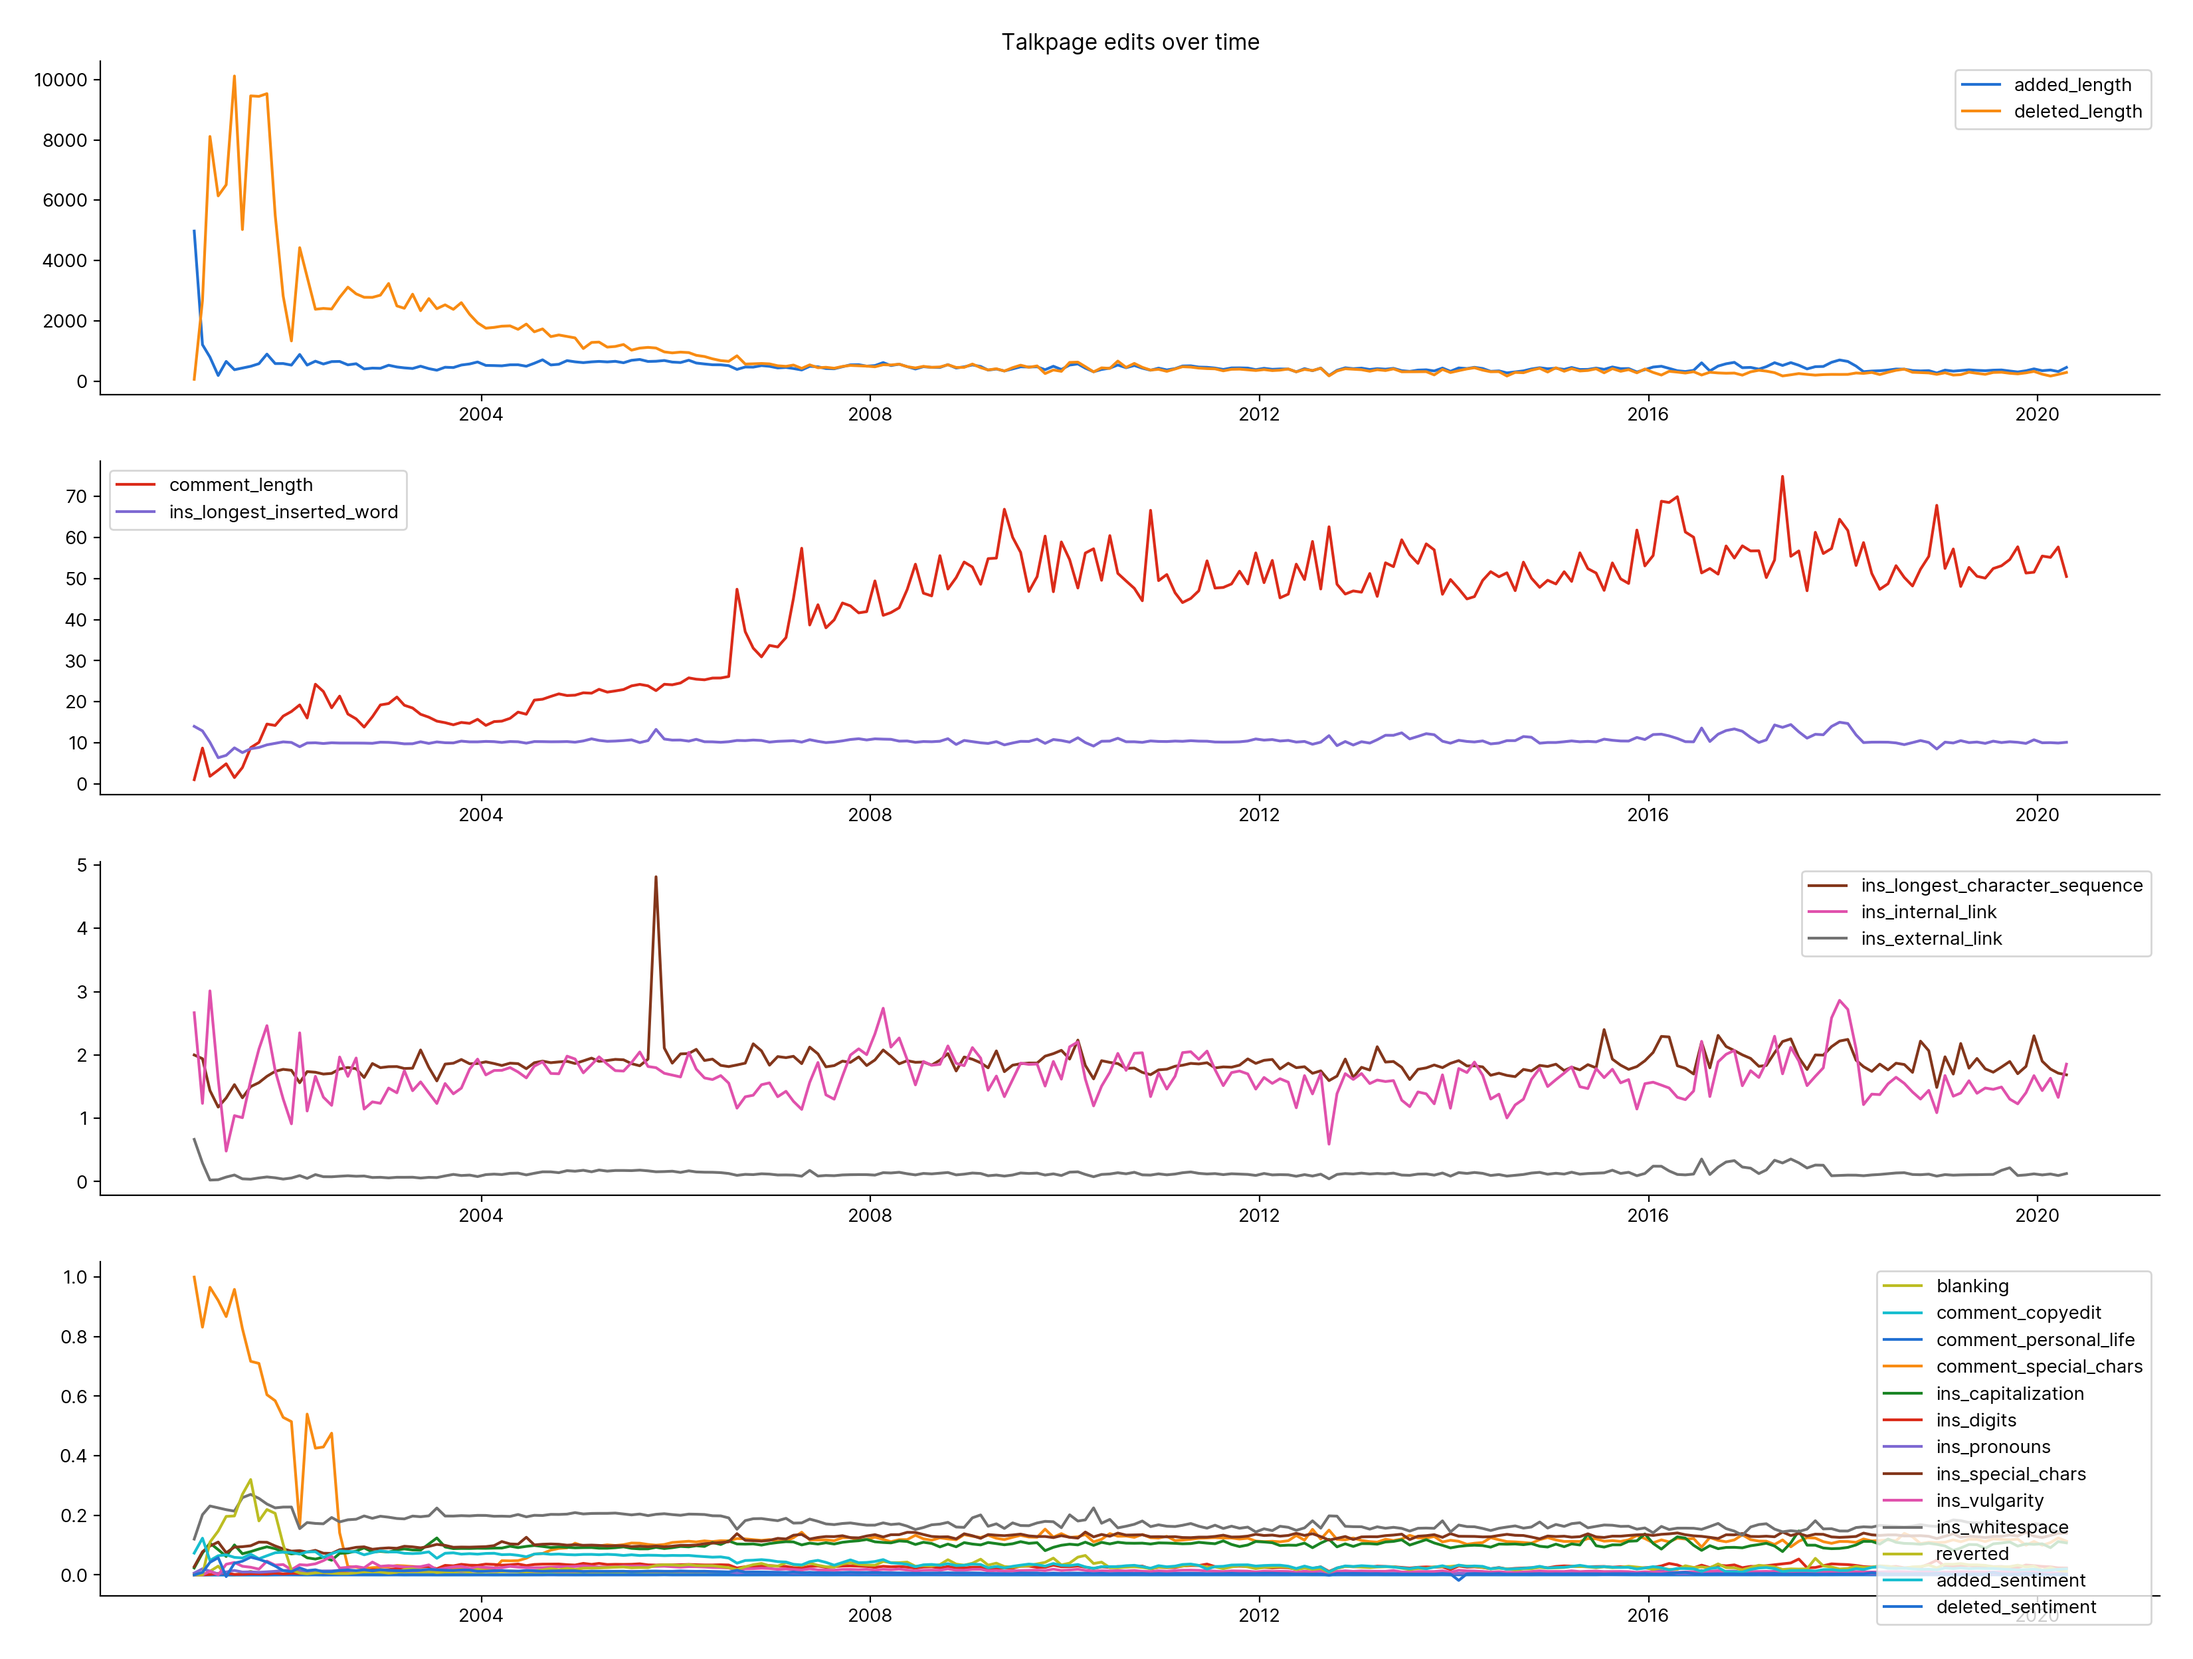
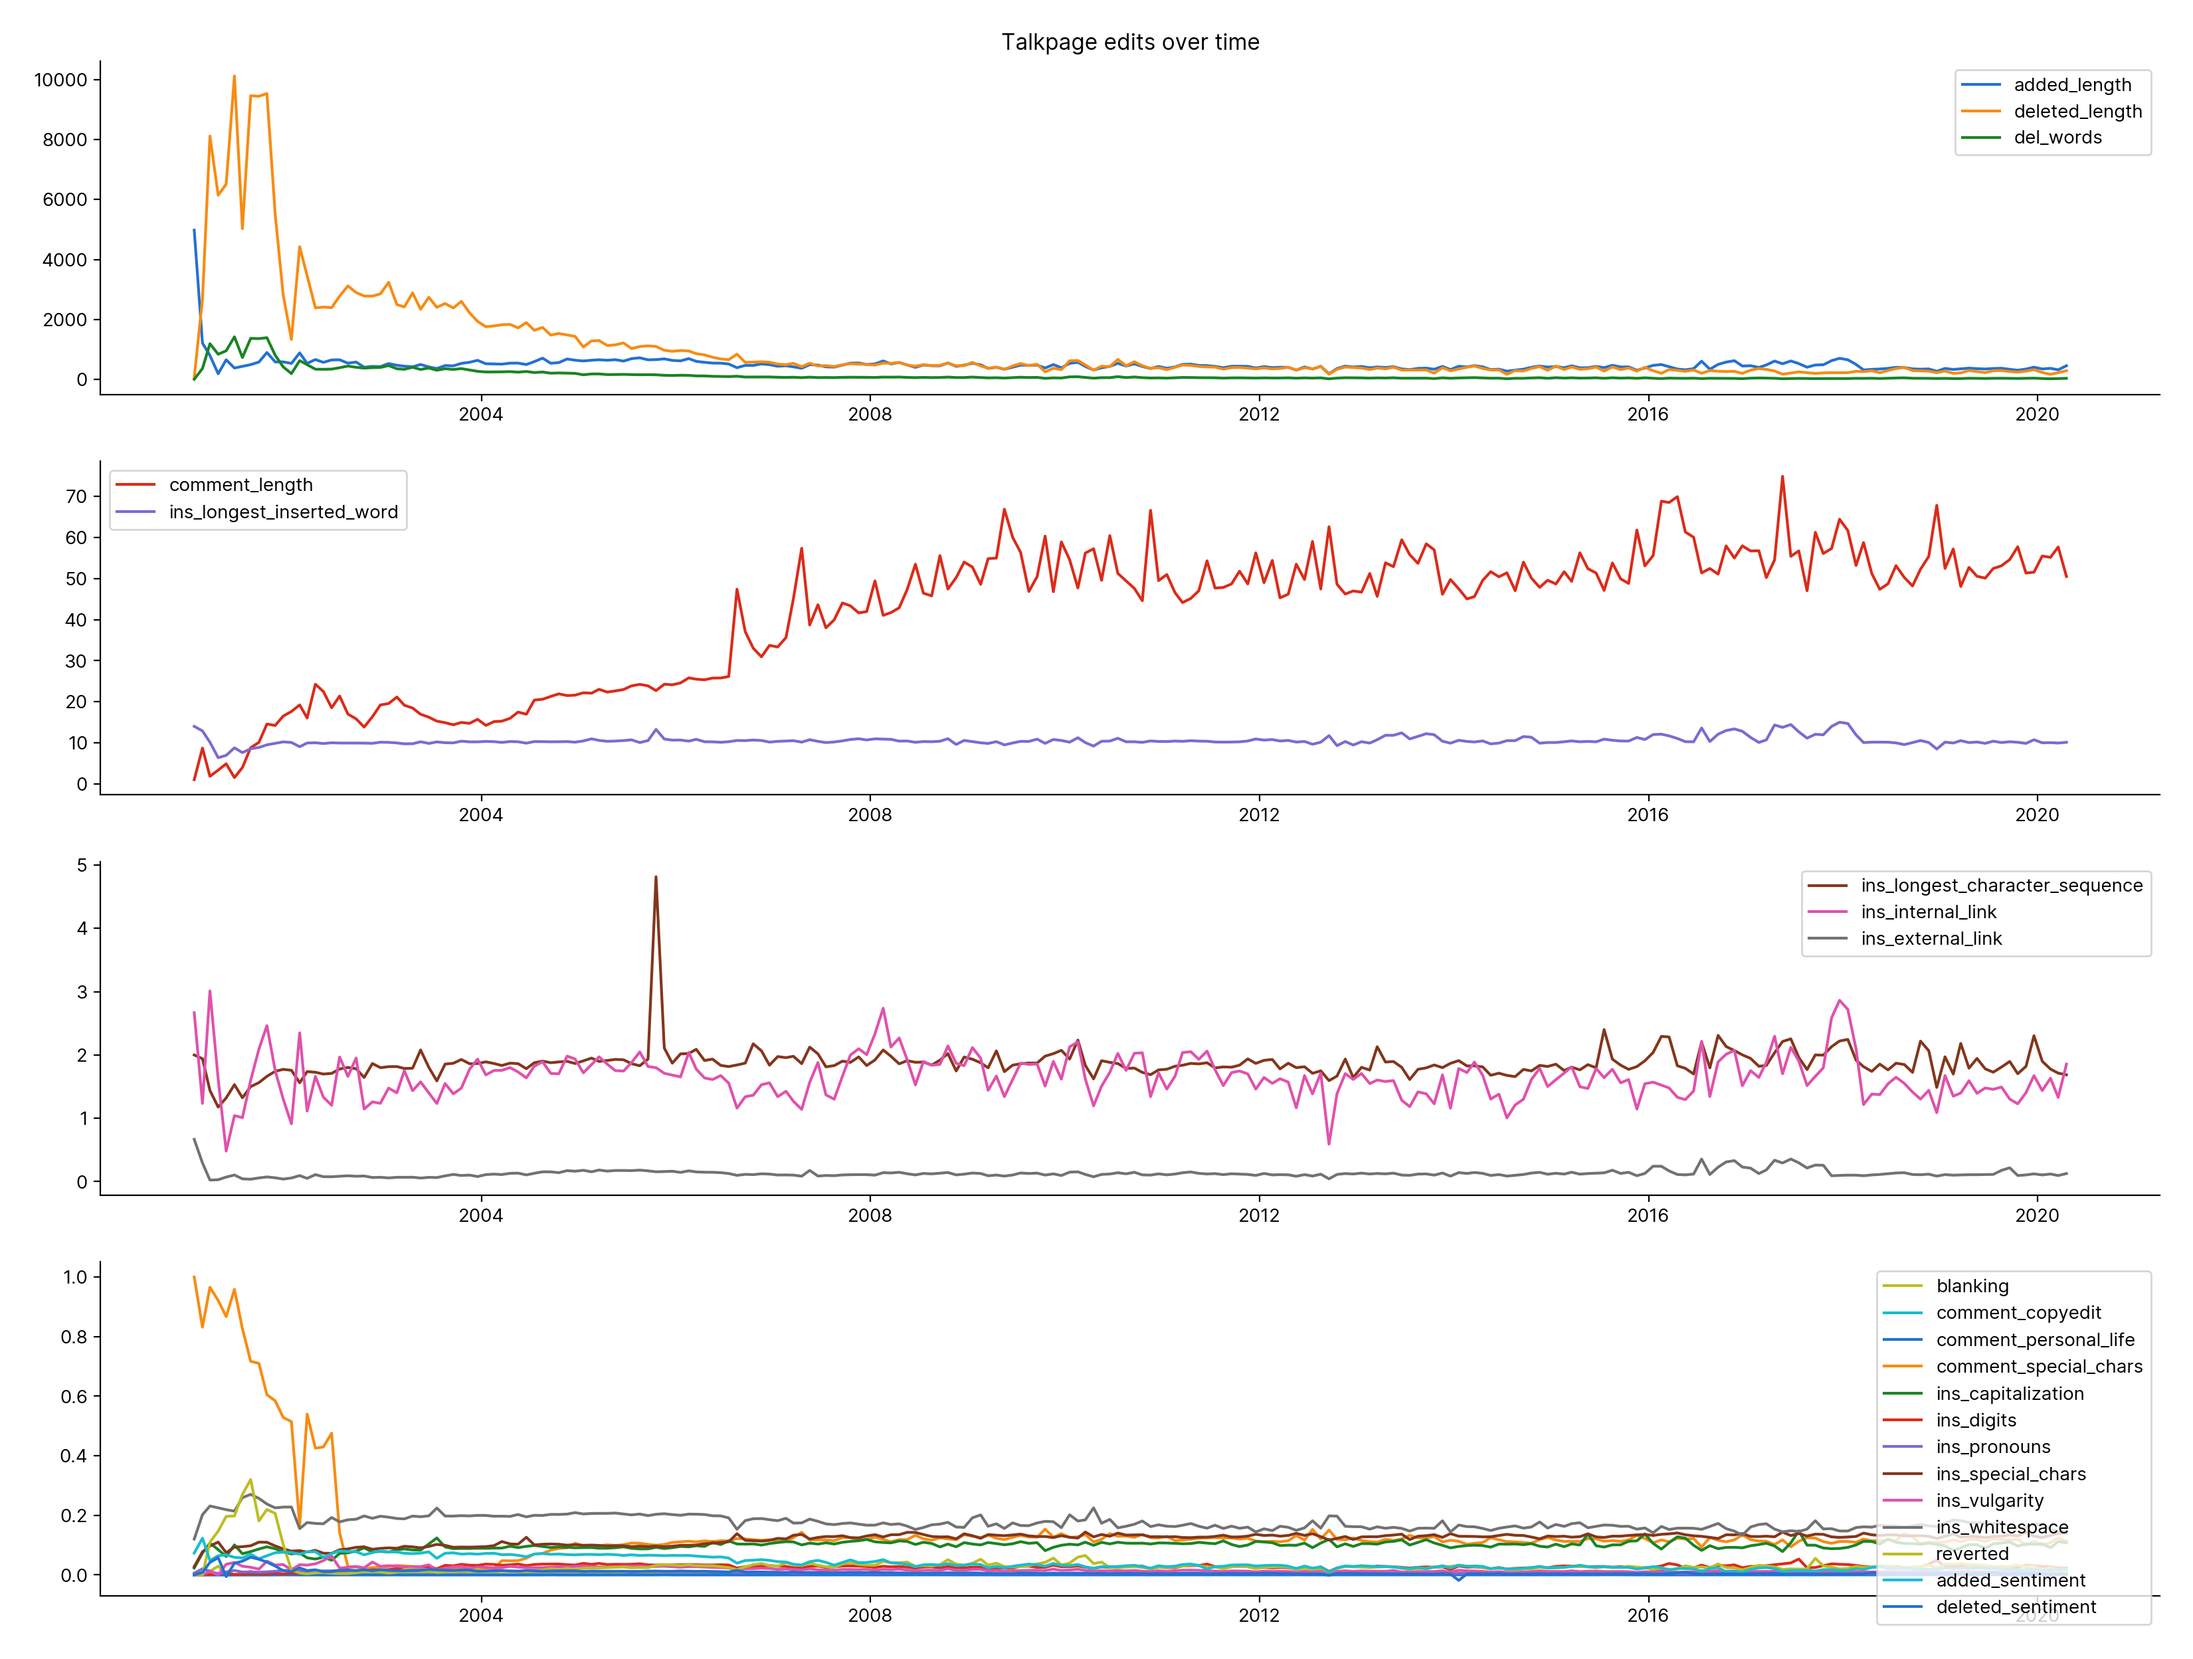
add avg over years plot

Changed region(s): [[0.156, 0.1874, 0.9361, 0.2499], [0.9049, 0.0625, 0.9673, 0.0937], [0.0936, 0.1874, 0.1248, 0.2187]]

diff --git a/nsdb/plot.py b/nsdb/plot.py
@@ -2769,10 +2769,12 @@ def talkpageEditsOverTime(cursor, i, plotDir, dataDir, dryrun):
     values = [x[1] for x in data]
     fig, ax = plt.subplots()
 
-    fig.suptitle("Talkpage edits over time")
+    ax.set_title("Talkpage edits over time")
 
     ax.plot_date(dates, values, "C0-")
+
     plt.gcf().set_size_inches(12, 7.5)
+    removeSpines(ax)
 
     plt.savefig(figname, bbox_inches="tight", pad_inches=0.25, dpi=200)
     plt.close()
@@ -3101,10 +3103,92 @@ def averageFeaturesOverTime(cursor, i, plotDir, dataDir, dryrun):
     fig, axs = plt.subplots(4, 1)
 
     axs[0].set_title("Talkpage edits over time")
-    print(len(dates), len(values[0]), len(columns))
+
     colors = ["C0", "C1", "C2", "C3", "C4", "C5", "C6", "C7", "C8", "C9"]
     start = [0, 3, 5, 8]
-    end = [2, 5, 8, 21]
+    end = [3, 5, 8, 21]
+    for j in range(4):
+        for i in range(start[j], end[j]):
+            axs[j].plot_date(
+                dates,
+                list(map(lambda x: x[i], values)),
+                "C0-",
+                label=columns[i],
+                c=colors[i % 10],
+            )
+        axs[j].legend(loc="best")
+        removeSpines(axs[j])
+    plt.gcf().set_size_inches(20, 15)
+
+    plt.savefig(figname, bbox_inches="tight", pad_inches=0.25, dpi=200)
+    plt.close()
+
+
+def averageFeaturesOverYear(cursor, i, plotDir, dataDir, dryrun):
+    figname = plotDir + str(i) + "-" + "averageFeaturesOverYear"
+    plt.figure()
+
+    columns = [
+        "added_length",
+        "deleted_length",
+        "del_words",
+        "comment_length",
+        "ins_longest_inserted_word",
+        "ins_longest_character_sequence",
+        "ins_internal_link",
+        "ins_external_link",
+        "blanking",
+        "comment_copyedit",
+        "comment_personal_life",
+        "comment_special_chars",
+        "ins_capitalization",
+        "ins_digits",
+        "ins_pronouns",
+        "ins_special_chars",
+        "ins_vulgarity",
+        "ins_whitespace",
+        "reverted",
+        "added_sentiment",
+        "deleted_sentiment",
+    ]
+
+    query = """select YEAR(edit_date), AVG(added_length),AVG(deleted_length),AVG(del_words),AVG(comment_length),
+    AVG(ins_longest_inserted_word),AVG(ins_longest_character_sequence),AVG(ins_internal_link),
+    AVG(ins_external_link),AVG(blanking),AVG(comment_copyedit),AVG(comment_personal_life),
+    AVG(comment_special_chars),AVG(ins_capitalization),AVG(ins_digits),AVG(ins_pronouns),
+    AVG(ins_special_chars),AVG(ins_vulgarity),AVG(ins_whitespace),AVG(reverted),AVG(added_sentiment),
+    AVG(deleted_sentiment)  FROM edit
+    GROUP BY YEAR(edit_date) 
+    order by YEAR(edit_date) ;"""
+
+    if not dryrun:
+        cursor.execute(query,)
+        data = cursor.fetchall()
+
+        with open(dataDir + str(i) + ".csv", "w") as file:
+            writer = csv.writer(file, delimiter=",")
+            for line in data:
+                writer.writerow(line)
+    else:
+        with open(dataDir + str(i) + ".csv", "r") as file:
+            data = []
+            reader = csv.reader(file, delimiter=",")
+            for line in reader:
+                data.append(line)
+
+            data = list(map(lambda x: tuple(map(float, x)), data))
+
+    dates = list(map(lambda x: matplotlib.dates.datestr2num(str(int(x[0]))), data,))
+
+    values = list(map(lambda x: x[1:], data))
+
+    fig, axs = plt.subplots(4, 1)
+
+    axs[0].set_title("Talkpage edits by averaged by year")
+
+    colors = ["C0", "C1", "C2", "C3", "C4", "C5", "C6", "C7", "C8", "C9"]
+    start = [0, 3, 5, 8]
+    end = [3, 5, 8, 21]
     for j in range(4):
         for i in range(start[j], end[j]):
             axs[j].plot_date(
@@ -3290,6 +3374,10 @@ def plot(plotDir: str = "../plots/", dryrun=False):
     # 27
     i = i + 1
     # averageFeaturesOverTime(cursor, i, plotDir, dataDir, dryrun)
+
+    # 28
+    i = i + 1
+    # averageFeaturesOverYear(cursor, i, plotDir, dataDir, dryrun)
 
     if not dryrun:
         cursor.close()

diff --git a/plots/README.md b/plots/README.md
@@ -87,3 +87,6 @@
 
 ### 27 Average Features Over Time
 ![plot](27-averageFeaturesOverTime.png)
+
+### 28 Average Features Over Year
+![plot](28-averageFeaturesOverYear.png)
